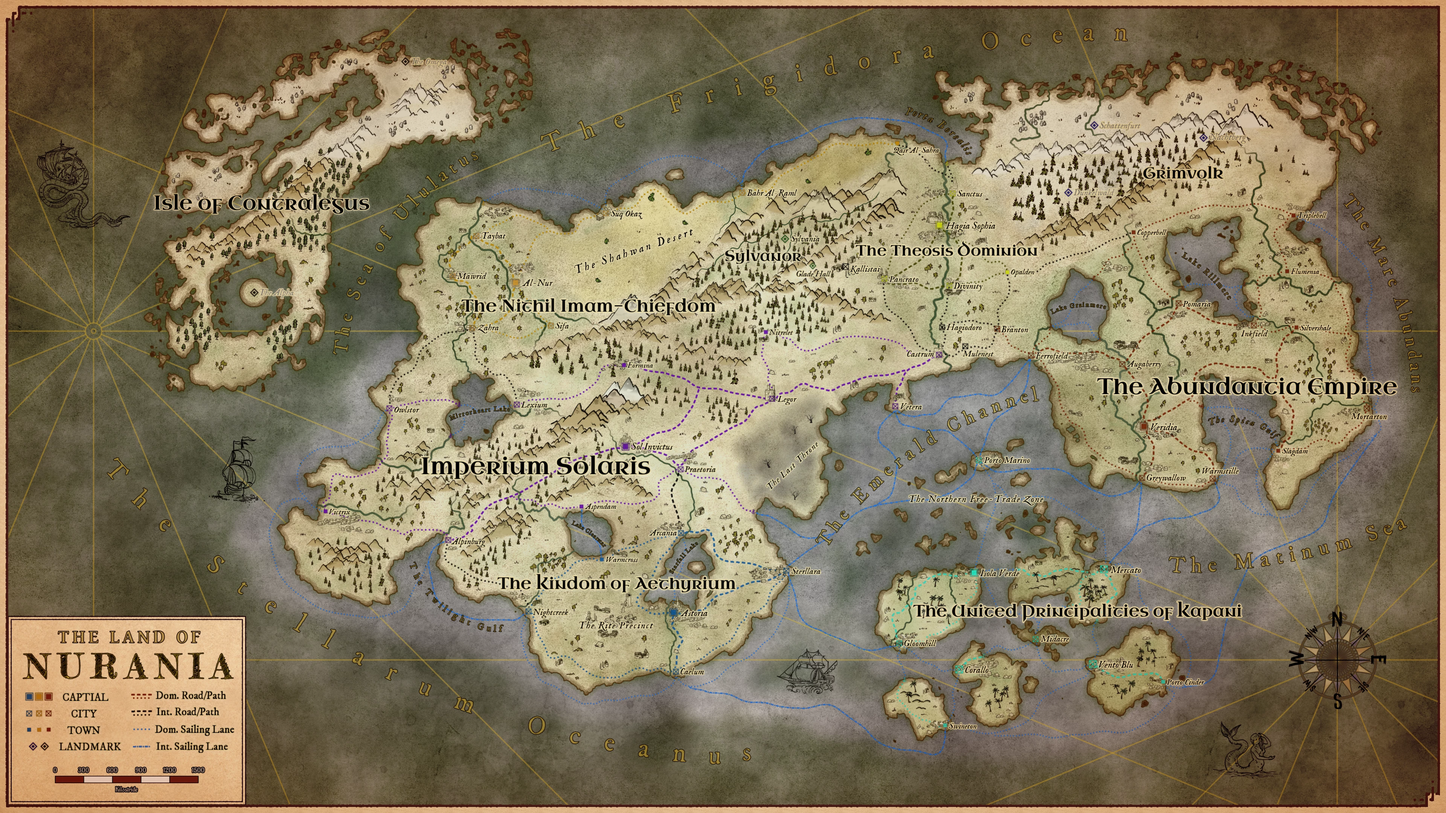
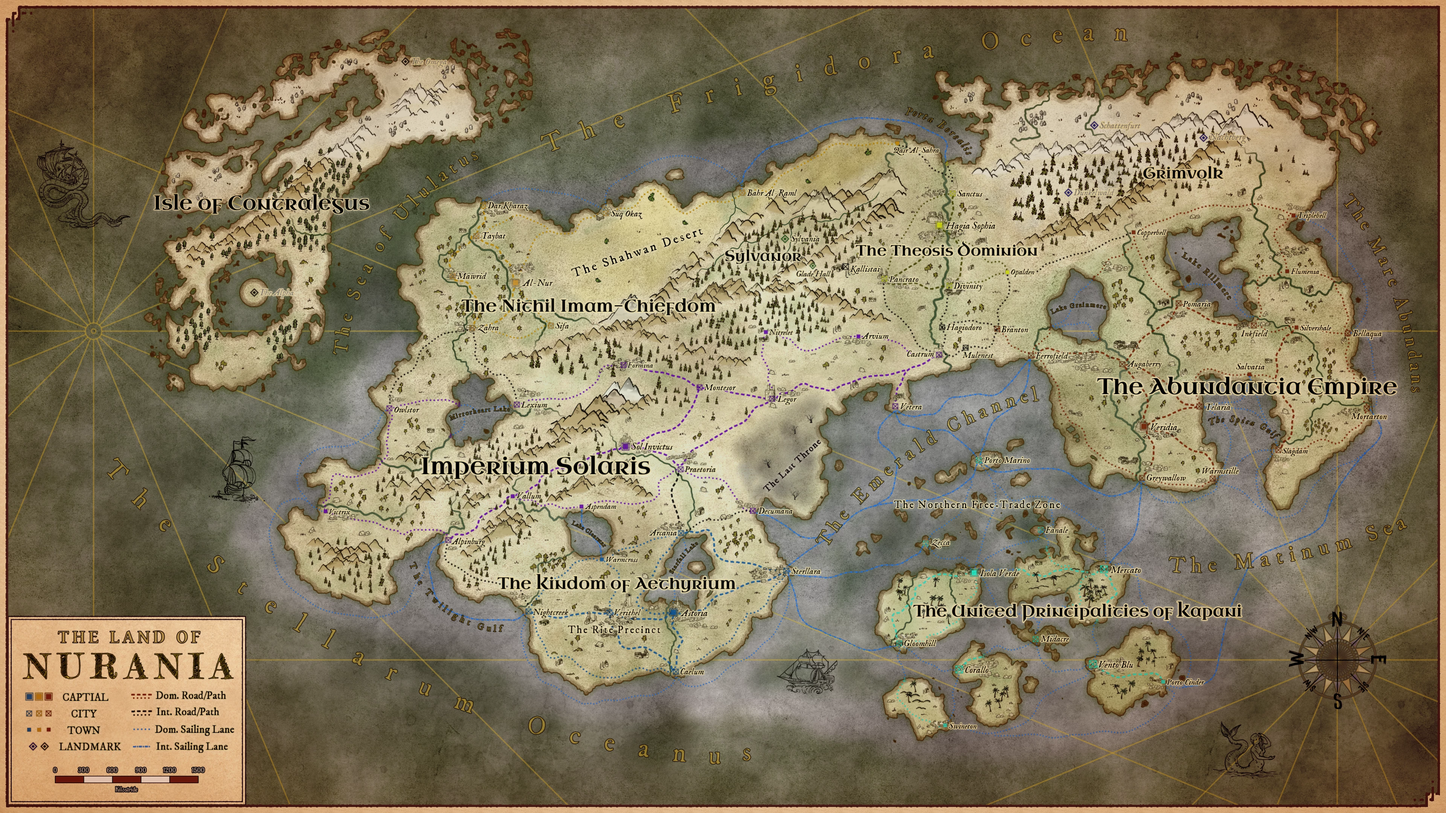
content: 更新大陆地图与索引地名词条
新增维克崔克斯、亚尔平堡、韦里泰尔、法纳莱、泽卡五处地名，
「特别仪式区」加别名「仪式区」，蚀刻总所与艾瑟瑞姆条目随之改写；
world_map 与 world_map_labelled 同步更新。

diff --git a/data/compendium/索引 Index.md b/data/compendium/索引 Index.md
@@ -513,13 +513,13 @@ titleEn: Index
 
 **三柱议会**　阿布丹提亚最高立法与财政机构，1393年确立，三柱指皇室、贵族与魔法阶级。（阿布丹提亚.md；政治.md）
 
-**蚀刻总所**　艾瑟瑞姆特别仪式区内的星轨蚀刻总所，由王家研究院直属，垄断产业链核心蚀刻环节。（艾瑟瑞姆.md；衡台.md）
+**蚀刻总所**　设于艾瑟瑞姆特别仪式区韦里泰尔的星轨蚀刻总所，由王家研究院直属，垄断产业链核心蚀刻环节。（艾瑟瑞姆.md；衡台.md）
 
 **首席发言人**　卡帕尼四公联席会议主席，由四公爵轮任，联席会议表决平局时握最终裁决权。（卡帕尼.md）
 
 **四公联席会议（联席会议）**　卡帕尼最高权力机构，由四公爵组成，设首席发言人一职，每五年轮换。（卡帕尼.md）
 
-**特别仪式区**　位于艾瑟瑞姆中南部最大平原，专用于王国星术研究与设备制造，行政直属国王/女王。（艾瑟瑞姆.md）
+**特别仪式区（仪式区）**　位于艾瑟瑞姆中南部最大平原，专用于王国星术研究与设备制造，行政直属国王/女王，区内最大城市为韦里泰尔。（艾瑟瑞姆.md）
 
 **特区商法典**　卡帕尼北部特贸区适用的独立法系，不同于各公国法系。（卡帕尼.md）
 
@@ -937,9 +937,9 @@ titleEn: Index
 
 **裂境北行省**　索拉瑞斯八个军团行省之一，位于裂境山脉以北、冠脊山脉西脉与南脉以南，首府弗密纳。（索拉瑞斯.md）
 
-**裂境南行省**　索拉瑞斯八个军团行省之一，位于裂境山脉以南、剑刃山脉以北，是帝国面向艾瑟瑞姆的南部行省。（索拉瑞斯.md）
+**裂境南行省**　索拉瑞斯八个军团行省之一，位于裂境山脉以南、剑刃山脉以北，首府亚尔平堡，是帝国面向艾瑟瑞姆的南部行省。（索拉瑞斯.md）
 
-**临海行省**　索拉瑞斯八个军团行省之一，辖帝国西南端的科尔瓦拉半岛全境，多山地丘陵，是帝国最偏远的行省。（索拉瑞斯.md；地理.md）
+**临海行省**　索拉瑞斯八个军团行省之一，辖帝国西南端的科尔瓦拉半岛全境，首府维克崔克斯，多山地丘陵，是帝国最偏远的行省。（索拉瑞斯.md；地理.md）
 
 **缪涅斯特**　布兰顿河以西、索菲亚大运河以东的城市，是索拉瑞斯在西比尔平原南部的东向门户。与北面的哈吉奥多罗同为《卡斯特鲁姆和约》划归阿布丹提亚的大运河下游东岸两城，行政交接至今未能完成。（布兰顿战役.md；政治.md）
 
@@ -951,9 +951,13 @@ titleEn: Index
 
 **索尔因维克图斯（索尔因）**　索拉瑞斯帝国首都，通称索尔因，位于奥利提斯平原西南角，索尔河流经其间。是帝国的政治军事中心与最大城市，八位行省总督每年赴此参加叙职大会；城南设有龙骑士团驻地与飞场。（索拉瑞斯.md；沉默者.md）
 
-**文特拉**　索拉瑞斯东奥利提斯行省南方的海运枢纽，是该行省第一大城市。第一次阿索战争的停战和约《文特拉和约》以其为名。（送别.md；度量与岁时 Measures and Times.md）
+**维克崔克斯**　索拉瑞斯临海行省首府，位于帝国西南端的科尔瓦拉半岛。（索拉瑞斯.md）
+
+**文特拉**　索拉瑞斯东奥利提斯行省南方的海运枢纽，是该行省第一大城市及首府。第一次阿索战争的停战和约《文特拉和约》以其为名。（送别.md；度量与岁时 Measures and Times.md）
 
 **西奥利提斯行省**　索拉瑞斯八个军团行省之一，位于帝国中部，与东奥利提斯行省同处奥利提斯平原，首府莱戈尔。（索拉瑞斯.md；布兰顿战役.md）
+
+**亚尔平堡**　索拉瑞斯裂境南行省首府，位于裂境山脉以南、剑刃山脉以北。（索拉瑞斯.md）
 
 **中辖行省**　索拉瑞斯八个军团行省之一，位于裂境山脉东南，索尔河流经其间，帝国首都索尔因维克图斯所在行省。（索拉瑞斯.md；布兰顿战役.md）
 
@@ -1061,6 +1065,8 @@ titleEn: Index
 
 **斯特拉拉**　艾瑟瑞姆多古雷伯爵领以及王国最大城市。位于首都以东、面向翡翠海峡，是王国的海陆交通枢纽与主要对外贸易门户，也是对卡帕尼贸易的最大口岸。阿斯托戈商会在此设有分部。（艾瑟瑞姆.md；衡台.md）
 
+**韦里泰尔**　艾瑟瑞姆特别仪式区内的最大城市，星轨蚀刻总所所在地，统筹协调全区的星术设备生产。（艾瑟瑞姆.md）
+
 **坠星湖**　艾瑟瑞姆王国的地理中心，首都阿斯托利亚位于其南端出湖口。索尔河自索拉瑞斯方向注入湖北端，瑟蒂尔河由南端流出南向大星洋；湖运依托星术船只，是沿岸城市群最重要的内部贸易路线。（地理.md；艾瑟瑞姆.md）
 
 ### 卡帕尼诸公联合
@@ -1071,9 +1077,11 @@ titleEn: Index
 
 **阿卡帕尼岛**　卡帕尼群岛南部主岛区的核心岛屿之一，与梅尔帕尼岛合计聚居全联邦逾半人口。（卡帕尼.md）
 
-**北部特别贸易区（特贸区/北部特贸区）**　卡帕尼联邦于1382年于群岛北部岛链设立的特别经济区，由五十八座岛屿及自由港组成，适用独立的特区商法典与优惠贸易税率，设管理局与仲裁所自治，是大陆各国商人自由开展贸易的核心地带，也是联邦金融机构最密集之处。（卡帕尼.md；年表与大事记 Chronology.md）
+**北部特别贸易区（特贸区/北部特贸区）**　卡帕尼联邦于1382年于群岛北部岛链设立的特别经济区，由五十八座岛屿及泽卡、法纳莱等自由港城组成，适用独立的特区商法典与优惠贸易税率，设管理局与仲裁所自治，是大陆各国商人自由开展贸易的核心地带，也是联邦金融机构最密集之处。（卡帕尼.md；年表与大事记 Chronology.md）
 
 **波托马利**　卡帕尼联邦最大城市，位于北部特贸区、翡翠海峡中央，是全大陆南北贸易的关键枢纽与海运门户。（卡帕尼.md；衡台.md；当代经济考略.md）
+
+**法纳莱**　卡帕尼北部特别贸易区的自由港城之一，位于翡翠海峡南缘的北部岛链。（卡帕尼.md）
 
 **卡恩顿**　卡帕尼四公国之一，由同名公爵世袭领有，首府柯拉罗。（卡帕尼.md）
 
@@ -1094,6 +1102,8 @@ titleEn: Index
 **谢兰港**　卡帕尼联邦波托马利城内的主要港口区。（衡台.md；当代经济考略.md）
 
 **伊索拉韦尔德（伊索拉）**　卡帕尼诸公联合首都，通称伊索拉，同时是阿卡帕尼公国首府，四公国的政治核心所在地。当地作坊以镀银工艺见长，索利亚商会创办于此。（卡帕尼.md；铸币的两面.md）
+
+**泽卡**　卡帕尼北部特别贸易区的自由港城之一，位于翡翠海峡南缘的北部岛链。（卡帕尼.md）
 
 ### 尼希尔伊玛目酋邦
 

diff --git a/data/compendium/诸国列志 Chorography of the Nations/艾瑟瑞姆.md b/data/compendium/诸国列志 Chorography of the Nations/艾瑟瑞姆.md
@@ -51,7 +51,7 @@ titleEn: The Kingdom of Aethyrium
 
 #### 王冠领地、伯爵领与司法
 
-王国国土划分为王冠领地、四个伯爵领与一个特别仪式区。王冠领地为国王直辖，含以首都阿斯托利亚为首的坠星湖南岸城市群。伯爵领即贵族封地，由各伯爵向下逐级分封，领地内最小行政单位为城市（多由建国前各城邦改制而来）及其周边农村（详见经济节）。伯爵领继承同样要求继承人达到一定的星术施法或理论水平，由王家研究院特设机构连同王位继承考核一并承办。特别仪式区位于王国中西部最大平原，专用于星术研究与设备制造，星轨蚀刻产业完全由王家研究院直属机构承担；该区域行政直属国王，司法由大司法院直接管辖。
+王国国土划分为王冠领地、四个伯爵领与一个特别仪式区。王冠领地为国王直辖，含以首都阿斯托利亚为首的坠星湖南岸城市群。伯爵领即贵族封地，由各伯爵向下逐级分封，领地内最小行政单位为城市（多由建国前各城邦改制而来）及其周边农村（详见经济节）。伯爵领继承同样要求继承人达到一定的星术施法或理论水平，由王家研究院特设机构连同王位继承考核一并承办。特别仪式区位于王国中南部最大平原，专用于星术研究与设备制造，星轨蚀刻产业完全由王家研究院直属机构承担；该区域行政直属国王，司法由大司法院直接管辖。
 
 王国境内绝大多数合同与契约以仲裁星术签订，其魔法强制力消解了多数民事争议，国内司法因此主要处理刑事案件：贵族领地内刑事由领主处理，重大的跨伯爵领或跨国的刑事案件交由大司法院承办，特别仪式区内另设大司法院分院；涉跨国民事案件也由大司法院受理。
 
